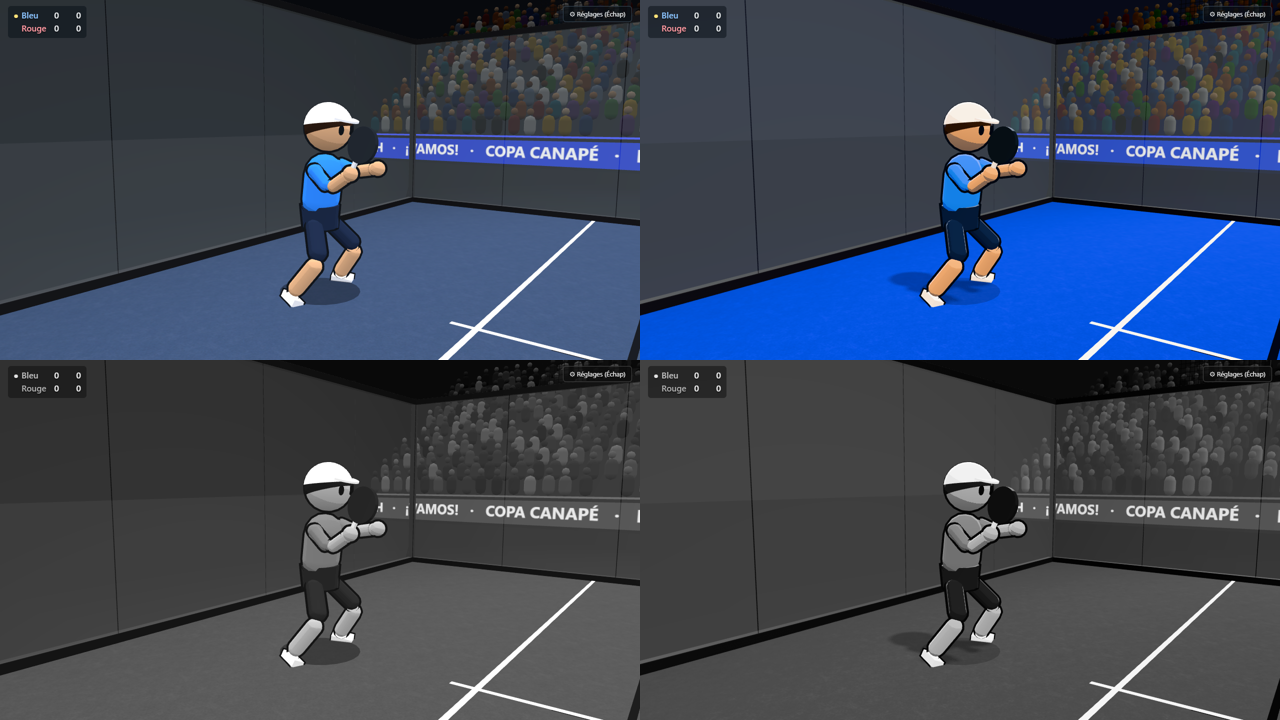
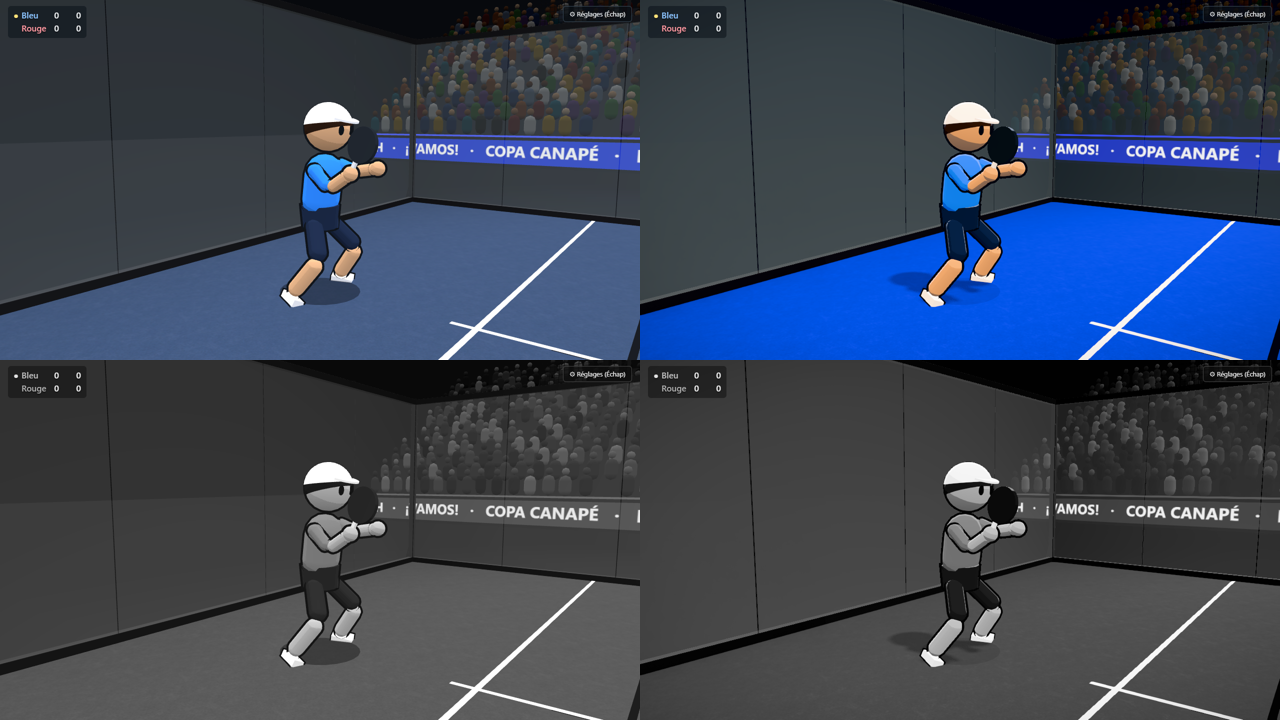
Post-traitement : bloom des projecteurs, occlusion aux contacts, vignette douce et SMAA
- Étape V6 du plan de polish visuel (research/rendu/POLISH_VISUEL.md), avec pmndrs/postprocessing 6.39.5
  et N8AO 2.0.1 (types minimaux dans src/n8ao.d.ts).
- Rendu en tampon flottant, occlusion N8AO en demi-résolution, bloom à seuil haut (seul le cœur intense des
  projecteurs fleurit, pas les lignes), courbe Neutral dans le compositeur, vignette, SMAA à la place du MSAA.
- Vitres compensées : le mélange des transparents en lumière linéaire les rendait laiteuses.
- +0,45 ms par image sur RTX 4070 ; coupure automatique sous 45 i/s, en rendu logiciel et par ?postfx=0.
- Banc d'essai : échoue sur une erreur de console, RENDU_SANS_VSYNC=1 pour mesurer sans plafond.

diff --git a/src/render/postfx.ts b/src/render/postfx.ts
@@ -1,0 +1,156 @@
+import * as THREE from 'three';
+import {
+  BloomEffect,
+  BrightnessContrastEffect,
+  EffectComposer,
+  EffectPass,
+  HueSaturationEffect,
+  RenderPass,
+  SMAAEffect,
+  SMAAPreset,
+  ToneMappingEffect,
+  ToneMappingMode,
+  VignetteEffect,
+} from 'postprocessing';
+import { N8AOPostPass } from 'n8ao';
+import { softwareRendering, type RenderLook } from './look';
+
+/**
+ * Post-traitement du rendu soigné (`research/rendu/POLISH_VISUEL.md`, étape V6), avec pmndrs/postprocessing (ses
+ * `EffectPass` fusionnent les effets en une passe) et N8AO :
+ * - occlusion ambiante : un léger sombre aux contacts (pieds, coins vitre/sol, sous le filet), en demi-résolution ;
+ * - bloom à seuil haut : seuls les projecteurs, la bande LED et les éclats brillent vraiment ;
+ * - courbe de tons (Neutral, déplacée ici depuis le moteur), léger étalonnage (contraste, saturation), vignette ;
+ * - anticrénelage SMAA en fin (le MSAA du moteur ne marche pas avec l'occlusion).
+ * Coupé en `?rendu=simple`, en rendu logiciel, par `?postfx=0`, et de lui-même si le jeu rame (qualité automatique).
+ */
+
+/** Occlusion : rayon (m), atténuation, force. Discrète : elle ne doit jamais salir la balle ni son ombre. [à calibrer] */
+const AO_RADIUS = 0.6;
+const AO_FALLOFF = 0.4;
+const AO_INTENSITY = 2.2;
+/** Bloom : seuil de luminance (linéaire), adoucissement, force, rayon. [à calibrer] */
+const BLOOM_THRESHOLD = 4;
+const BLOOM_SMOOTHING = 0.25;
+const BLOOM_INTENSITY = 0.7;
+const BLOOM_RADIUS = 0.6;
+/** Étalonnage et vignette. [à calibrer] */
+const CONTRAST = 0.03;
+const SATURATION = 0;
+const VIGNETTE_OFFSET = 0.3;
+const VIGNETTE_DARKNESS = 0.35;
+
+/**
+ * Vitres : le compositeur mélange les transparents en lumière linéaire, et non plus dans l'espace de l'écran ; à
+ * opacité égale, une vitre y paraît bien plus claire (laiteuse). On compense. [à calibrer]
+ */
+const GLASS_OPACITY = 0.4;
+
+/** Courbe de tons du moteur → la même dans le compositeur. */
+const TONE_MODES: Partial<Record<THREE.ToneMapping, ToneMappingMode>> = {
+  [THREE.NeutralToneMapping]: ToneMappingMode.NEUTRAL,
+  [THREE.AgXToneMapping]: ToneMappingMode.AGX,
+  [THREE.ACESFilmicToneMapping]: ToneMappingMode.ACES_FILMIC,
+};
+
+/** Vitres du terrain (modèle `vitre`, ou panneaux des formes simples) : opacité compensée, une seule fois. */
+export function linearGlass(object: THREE.Object3D): void {
+  object.traverse((node) => {
+    if (!(node instanceof THREE.Mesh)) return;
+    const material = node.material as THREE.Material;
+    const glass = material.name === 'vitre' || (material instanceof THREE.MeshBasicMaterial && material.transparent && !material.map && material.color.getHex() === 0x9fd4ee);
+    if (!glass || material.userData.linearGlass) return;
+    material.userData.linearGlass = true;
+    material.opacity *= GLASS_OPACITY;
+  });
+}
+
+/** Voulu d'après l'adresse ; à savoir avant de créer le moteur (son MSAA doit alors être coupé). */
+export function postfxWanted(look: RenderLook): boolean {
+  return look === 'soigne' && new URLSearchParams(location.search).get('postfx') !== '0';
+}
+
+export interface Postfx {
+  /** Dessine l'image ; après une coupure (`disabled`), le moteur dessine seul, avec sa courbe de tons d'origine. */
+  render(frameTime: number): void;
+  setSize(width: number, height: number): void;
+  readonly disabled: boolean;
+}
+
+/**
+ * Qualité automatique : sous `FALLBACK_FPS` en moyenne pendant `FALLBACK_SECONDS` (après `WARMUP` s, le temps que
+ * les shaders compilent), le post-traitement se coupe pour la partie. [à calibrer]
+ */
+const FALLBACK_FPS = 45;
+const FALLBACK_SECONDS = 3;
+const WARMUP = 2;
+
+/** Le compositeur, ou `null` en rendu logiciel (trop cher : chaque passe redessine tout l'écran). */
+export function createPostfx(renderer: THREE.WebGLRenderer, scene: THREE.Scene, camera: THREE.PerspectiveCamera): Postfx | null {
+  if (softwareRendering(renderer)) return null;
+  const tone = TONE_MODES[renderer.toneMapping] ?? ToneMappingMode.NEUTRAL;
+  // Les matériaux rendent en lumière linéaire dans un tampon flottant ; la courbe de tons vient à la fin (l'exposition
+  // du moteur reste lue par l'effet).
+  const engineToneMapping = renderer.toneMapping;
+  renderer.toneMapping = THREE.NoToneMapping;
+  const composer = new EffectComposer(renderer, { frameBufferType: THREE.HalfFloatType });
+  composer.addPass(new RenderPass(scene, camera));
+
+  const size = renderer.getSize(new THREE.Vector2());
+  const ao = new N8AOPostPass(scene, camera, size.x, size.y);
+  ao.setQualityMode('Performance');
+  Object.assign(ao.configuration, {
+    aoRadius: AO_RADIUS,
+    distanceFalloff: AO_FALLOFF,
+    intensity: AO_INTENSITY,
+    halfRes: true,
+    gammaCorrection: false,
+  });
+  composer.addPass(ao);
+
+  composer.addPass(
+    new EffectPass(
+      camera,
+      new BloomEffect({
+        luminanceThreshold: BLOOM_THRESHOLD,
+        luminanceSmoothing: BLOOM_SMOOTHING,
+        intensity: BLOOM_INTENSITY,
+        radius: BLOOM_RADIUS,
+        mipmapBlur: true,
+      }),
+      new ToneMappingEffect({ mode: tone }),
+      new BrightnessContrastEffect({ contrast: CONTRAST }),
+      new HueSaturationEffect({ saturation: SATURATION }),
+      new VignetteEffect({ offset: VIGNETTE_OFFSET, darkness: VIGNETTE_DARKNESS }),
+    ),
+  );
+  composer.addPass(new EffectPass(camera, new SMAAEffect({ preset: SMAAPreset.MEDIUM })));
+
+  let disabled = false;
+  let age = 0;
+  let slowTime = 0;
+  let averageFrame = 1 / 60;
+  return {
+    get disabled() {
+      return disabled;
+    },
+    render(frameTime) {
+      // Onglet caché ou image figée (chargement, onglet qui revient) : rien à juger.
+      if (!disabled && frameTime < 0.25 && !document.hidden) {
+        age += frameTime;
+        averageFrame += (frameTime - averageFrame) * 0.1;
+        slowTime = age > WARMUP && averageFrame > 1 / FALLBACK_FPS ? slowTime + frameTime : 0;
+        if (slowTime > FALLBACK_SECONDS) {
+          disabled = true;
+          renderer.toneMapping = engineToneMapping;
+          console.info(`Post-traitement coupé : ${(1 / averageFrame).toFixed(0)} i/s en moyenne.`);
+        }
+      }
+      if (disabled) renderer.render(scene, camera);
+      else composer.render(frameTime);
+    },
+    setSize(width, height) {
+      composer.setSize(width, height, false);
+    },
+  };
+}

diff --git a/src/render/duelScene.ts b/src/render/duelScene.ts
@@ -10,11 +10,12 @@ import { createEffectsView, effectsEnabled } from './effectsView';
 import { arenaEnabled, createArena } from './arena';
 import { stepCrowdReactions } from '../audio/recipes';
 import { CHARACTERS, createCharacter, type CharacterRig } from './character';
-import { applyLook, enableShadows, exactColor, renderLook, setShadows } from './look';
+import { applyLook, enableShadows, exactColor, renderLook, setShadows, softwareRendering } from './look';
 import { loadModel, modelsEnabled } from './models';
 import { dressCharacter, toonLookEnabled, updateOutline } from './toonLook';
 import { dressCourt, turfEnabled } from './turf';
 import { dressHall, hallEnabled } from './hall';
+import { createPostfx, linearGlass, postfxWanted } from './postfx';
 import type { RenderInfo } from '../ui/perfMeter';
 import { bodyYawTarget, computePose, lowFamily, overheadFamily, plansHighShot, STRIDE, swingSide, type SwingFamily } from './pose';
 
@@ -307,12 +308,17 @@ function createBallView(): {
 }
 
 export function createDuelView(canvas: HTMLCanvasElement, duel: Duel): DuelView {
-  const renderer = new THREE.WebGLRenderer({ canvas, antialias: true });
+  const look = renderLook();
+  // Avec le post-traitement, l'anticrénelage est un SMAA en fin de chaîne : le MSAA du moteur gênerait l'occlusion.
+  const renderer = new THREE.WebGLRenderer({ canvas, antialias: !postfxWanted(look) });
+  // Plusieurs passes par image : le compteur du banc d'essai est remis à zéro à chaque image, pas à chaque passe.
+  renderer.info.autoReset = false;
+  /** Post-traitement actif (`postfx.ts`) : rendu en lumière linéaire, bloom ; jamais en rendu logiciel. */
+  const hdr = postfxWanted(look) && !softwareRendering(renderer);
   renderer.setPixelRatio(Math.min(window.devicePixelRatio, 2));
   renderer.localClippingEnabled = true;
 
   const scene = new THREE.Scene();
-  const look = renderLook();
   applyLook(renderer, scene, look);
   const soigne = look === 'soigne';
   // Salle sombre autour d'un terrain très éclairé (étape E6) ; sans l'arène, le fond d'avant.
@@ -325,7 +331,7 @@ export function createDuelView(canvas: HTMLCanvasElement, duel: Duel): DuelView 
   if (arena) {
     scene.add(arena.object);
     // Rendu soigné : halos et faisceaux des projecteurs, salle bleu nuit (`hall.ts`).
-    if (soigne && hallEnabled()) dressHall(scene, arena.object);
+    if (soigne && hallEnabled()) dressHall(scene, arena.object, hdr);
     if (import.meta.env.DEV || new URLSearchParams(location.search).has('debug')) window.__arena = arena;
     // Le terrain sous les projecteurs : un cône de lumière au-dessus, qui laisse les tribunes dans la pénombre.
     // Rendu soigné : projecteurs d'un blanc légèrement chaud, pour que les ombres froides de l'ambiance ressortent.
@@ -356,6 +362,7 @@ export function createDuelView(canvas: HTMLCanvasElement, duel: Duel): DuelView 
   // Rendu soigné : tapis bleu façon Premier Padel, lignes blanches (avant le découpage de la vitre proche, qui touche aux matériaux).
   const turf = soigne && turfEnabled();
   if (turf) dressCourt(court.object);
+  if (hdr) linearGlass(court.object);
   clipNearWall(court.object);
   if (shadows) setShadows(court.object, true);
   const ball = createBallView();
@@ -414,6 +421,7 @@ export function createDuelView(canvas: HTMLCanvasElement, duel: Duel): DuelView 
       if (courtModel) {
         court.setModel(courtModel, false);
         if (turf) dressCourt(court.object);
+        if (hdr) linearGlass(court.object);
         clipNearWall(court.object);
         if (shadows) setShadows(court.object, true);
       }
@@ -425,6 +433,7 @@ export function createDuelView(canvas: HTMLCanvasElement, duel: Duel): DuelView 
   }
 
   const camera = new THREE.PerspectiveCamera(CAMERA_FOV, 1, 0.1, 200);
+  const postfx = hdr ? createPostfx(renderer, scene, camera) : null;
   /**
    * `?camera=proche` : de trois quarts face, côté coup droit, près du joueur 1 ; `?camera=dos` : derrière lui.
    * Pour juger les poses du personnage.
@@ -441,6 +450,7 @@ export function createDuelView(canvas: HTMLCanvasElement, duel: Duel): DuelView 
     const width = canvas.clientWidth;
     const height = canvas.clientHeight;
     renderer.setSize(width, height, false);
+    postfx?.setSize(width, height);
     camera.aspect = width / height;
     const fovFactor = Math.max(1, CAMERA_ASPECT / camera.aspect);
     baseFov = THREE.MathUtils.radToDeg(2 * Math.atan(Math.tan(THREE.MathUtils.degToRad(CAMERA_FOV / 2)) * fovFactor));
@@ -700,7 +710,9 @@ export function createDuelView(canvas: HTMLCanvasElement, duel: Duel): DuelView 
       }
       effects?.update(frozen ? 0 : frameTime, camera, renderer.getDrawingBufferSize(drawingSize).y);
       updateOutline(camera);
-      renderer.render(scene, camera);
+      renderer.info.reset();
+      if (postfx) postfx.render(frameTime);
+      else renderer.render(scene, camera);
     },
   };
 }

diff --git a/src/render/hall.ts b/src/render/hall.ts
@@ -18,6 +18,12 @@ const LAMPS: readonly { pos: [number, number, number]; aim: [number, number, num
 const HALO_SIZE = 1.6;
 const HALO_OPACITY = 0.85;
 const HALO_COLOR = 0xfff1dc;
+/**
+ * Avec le post-traitement (V6) : un petit cœur bien plus intense que le blanc, seul à franchir le seuil du bloom,
+ * au centre du halo doux. Taille (m) et intensité. [à calibrer]
+ */
+const CORE_SIZE = 0.45;
+const CORE_HDR = 14;
 /** Faisceau : demi-angle d'ouverture et opacité au plus fort (près du projecteur). Très faible : la balle y passe. */
 const BEAM_ANGLE = THREE.MathUtils.degToRad(24);
 const BEAM_OPACITY = 0.09;
@@ -84,9 +90,9 @@ function beamMaterial(): THREE.ShaderMaterial {
 
 /**
  * Habille la salle : halos et faisceaux des projecteurs ajoutés à `scene`, ambiance appliquée à l'arène (`arena`,
- * ses meshes `sol-salle` et `tribunes`) et au fond. Rien n'est modifié sans arène.
+ * ses meshes `sol-salle` et `tribunes`) et au fond. `hdr` : post-traitement actif (bloom). Rien n'est modifié sans arène.
  */
-export function dressHall(scene: THREE.Scene, arena: THREE.Object3D): void {
+export function dressHall(scene: THREE.Scene, arena: THREE.Object3D, hdr = false): void {
   scene.background = new THREE.Color(HALL_BACKGROUND);
   if (scene.fog instanceof THREE.Fog) scene.fog.color.set(HALL_BACKGROUND);
   arena.traverse((node) => {
@@ -104,6 +110,8 @@ export function dressHall(scene: THREE.Scene, arena: THREE.Object3D): void {
     depthWrite: false,
     fog: false,
   });
+  const core = hdr ? halo.clone() : null;
+  core?.color.multiplyScalar(CORE_HDR);
   const beam = beamMaterial();
   const up = new THREE.Vector3(0, -1, 0);
   for (const lamp of LAMPS) {
@@ -114,6 +122,13 @@ export function dressHall(scene: THREE.Scene, arena: THREE.Object3D): void {
     sprite.position.copy(pos).add(new THREE.Vector3(-Math.sign(pos.x) * 0.15, 0, 0));
     sprite.renderOrder = 5;
     scene.add(sprite);
+    if (core) {
+      const glow = new THREE.Sprite(core);
+      glow.scale.setScalar(CORE_SIZE);
+      glow.position.copy(sprite.position);
+      glow.renderOrder = 6;
+      scene.add(glow);
+    }
 
     const aim = new THREE.Vector3(...lamp.aim);
     const length = pos.distanceTo(aim);

diff --git a/tests/e2e/rendu.spec.ts b/tests/e2e/rendu.spec.ts
@@ -21,7 +21,10 @@ const DIR = 'screenshots/rendu';
 /** `RENDU_SCENE=jeu` : une seule scène, pour régler vite. */
 // Chromium sur la vraie carte graphique : en rendu logiciel, ombres et reflets sont coupés (`look.ts`) et le temps
 // par image ne vaut rien. `RENDU_LOGICIEL=1` pour voir ce rendu de secours. Sans carte, Chromium y retombe seul.
-if (!env.RENDU_LOGICIEL) test.use({ launchOptions: { args: ['--use-angle=d3d11', '--enable-gpu', '--ignore-gpu-blocklist'] } });
+// `RENDU_SANS_VSYNC=1` : images non plafonnées à 60 i/s, pour lire le vrai coût d'une image.
+const GPU_ARGS = ['--use-angle=d3d11', '--enable-gpu', '--ignore-gpu-blocklist'];
+const UNCAPPED = env.RENDU_SANS_VSYNC ? ['--disable-gpu-vsync', '--disable-frame-rate-limit'] : [];
+if (!env.RENDU_LOGICIEL) test.use({ launchOptions: { args: [...GPU_ARGS, ...UNCAPPED] } });
 const SCENES = ALL_SCENES.filter((scene) => !env.RENDU_SCENE || scene.name === env.RENDU_SCENE);
 
 async function frozenScene(page: Page, query: string): Promise<void> {
@@ -43,6 +46,11 @@ for (const [variant, extra] of VARIANTS) {
     test.setTimeout(120_000);
     const errors: string[] = [];
     page.on('pageerror', (e) => errors.push(e.message));
+    // Shaders patchés et post-traitement : une erreur de compilation ne lève pas d'exception, elle s'écrit en console.
+    // (Les avertissements du compilateur Direct3D sur les shaders de N8AO et SMAA, sans effet, ne comptent pas.)
+    page.on('console', (m) => {
+      if (m.type() === 'error') errors.push(m.text());
+    });
     const perf: Record<string, unknown> = {};
     for (const scene of SCENES) {
       await frozenScene(page, scene.query + extra);

diff --git a/src/n8ao.d.ts b/src/n8ao.d.ts
@@ -1,0 +1,20 @@
+/** Types minimaux de N8AO (occlusion ambiante, https://github.com/N8python/n8ao), qui n'en fournit pas. */
+declare module 'n8ao' {
+  import type { Camera, Color, Scene } from 'three';
+  import type { Pass } from 'postprocessing';
+
+  export class N8AOPostPass extends Pass {
+    constructor(scene: Scene, camera: Camera, width?: number, height?: number);
+    configuration: {
+      aoRadius: number;
+      distanceFalloff: number;
+      intensity: number;
+      color: Color;
+      halfRes: boolean;
+      gammaCorrection: boolean;
+      screenSpaceRadius: boolean;
+    };
+    setQualityMode(mode: 'Performance' | 'Low' | 'Medium' | 'High' | 'Ultra'): void;
+    setSize(width: number, height: number): void;
+  }
+}

diff --git a/src/render/look.ts b/src/render/look.ts
@@ -93,7 +93,7 @@ export function setShadows(object: THREE.Object3D, receive: boolean): void {
 }
 
 /** Navigateur sans accélération graphique (pilote absent, liste noire, Chromium des tests sans écran). */
-function softwareRendering(renderer: THREE.WebGLRenderer): boolean {
+export function softwareRendering(renderer: THREE.WebGLRenderer): boolean {
   const gl = renderer.getContext();
   const info = gl.getExtension('WEBGL_debug_renderer_info');
   const name = String(gl.getParameter(info ? info.UNMASKED_RENDERER_WEBGL : gl.RENDERER));

diff --git a/research/rendu/POLISH_VISUEL.md b/research/rendu/POLISH_VISUEL.md
@@ -293,6 +293,32 @@ npx playwright test tests/e2e/rendu.spec.ts
 
 À juger en jeu (`?salle=0` pour comparer).
 
+**V6 — post-traitement** (19/10/2026 ; `src/render/postfx.ts`) :
+- Dépendances ajoutées : `postprocessing` 6.39.5 (pmndrs, compatible three < 0.187) et `n8ao` 2.0.1 (sans types :
+  `src/n8ao.d.ts`).
+- Chaîne : rendu en tampon flottant → **N8AO** (occlusion, demi-résolution, qualité « Performance », rayon 0,6 m)
+  → **bloom** à seuil haut (4, en lumière linéaire) → **courbe Neutral** (déplacée du moteur au compositeur, même
+  exposition) → contraste +0,03 → **vignette** douce → **SMAA** (le MSAA du moteur est coupé).
+- Pièges trouvés :
+  - les lignes et la casquette, sous le projecteur, valent plus de 3 fois le blanc : seuil du bloom à 4, et les
+    projecteurs ont un **cœur** très intense (×14, 45 cm) au centre de leur halo doux, seul à fleurir ;
+  - le compositeur mélange les transparents en lumière linéaire : à opacité égale, les **vitres** devenaient
+    laiteuses. Opacité ×0,4 avec le post-traitement (`linearGlass`) ;
+  - +0,06 de saturation poussait le bleu vers le violet : retiré. Vignette à 0,35 (à 0,5, elle assombrissait de
+    20 % les coins où se tiennent les joueurs).
+- Couleur du sol au centre : (35, 91, 224) contre (43, 108, 216) en V5 ; balle aussi lisible en gris.
+- Coût, sans plafond à 60 i/s (RTX 4070, 1280 × 720) : +0,45 ms par image en vue de jeu (1,47 contre 1,02 ms),
+  +0,5 ms en double. Pas mesuré sur une petite carte graphique.
+- **Qualité automatique** : sous 45 i/s en moyenne pendant 3 s (après 2 s de mise en route, onglet visible), le
+  post-traitement se coupe pour la partie et le moteur reprend sa courbe de tons. Coupé aussi en rendu
+  logiciel et par `?postfx=0`.
+- Le banc d'essai échoue désormais sur une erreur de console (shader qui ne compile pas). Les avertissements
+  du compilateur Direct3D sur les shaders de N8AO/SMAA (précision, dérivée dans une boucle) sont sans effet.
+- `RENDU_SANS_VSYNC=1` : le banc mesure sans plafond à 60 i/s. `comparaison-v6-*.png` (V5 | V6).
+- Pas fait : étalonnage par LUT (contraste et courbe suffisent pour l'instant).
+
+À juger en jeu (`?postfx=0` pour comparer).
+
 ## 5. Risques
 
 - **Lisibilité** : le principal risque. Halo, occlusion ou étalonnage qui noient la balle jaune

diff --git a/STATUS.md b/STATUS.md
@@ -895,3 +895,10 @@ commité d'un bloc par une autre session.
 Projecteurs des montants qui rayonnent (halos), faisceaux de lumière légers sur le terrain, salle bleu nuit façon
 Premier Padel (`?salle=0` pour comparer). Le sol de salle satiné a été abandonné (gris clair vu en rasant).
 Typecheck OK, 537 tests unitaires OK, e2e 30/30 en un seul worker. **Pas encore joué.**
+
+## Polish visuel V6 : post-traitement (19/10/2026)
+
+pmndrs/postprocessing + N8AO : occlusion aux contacts, bloom sur les projecteurs (cœur intense au centre du halo),
+courbe Neutral dans le compositeur, vignette douce, SMAA ; vitres compensées (mélange linéaire). +0,45 ms par image
+sur RTX 4070 ; coupure automatique sous 45 i/s, en rendu logiciel et par `?postfx=0`. Typecheck OK, 537 tests
+unitaires OK, e2e 30/30 en un seul worker, build OK. **Pas encore joué.**
